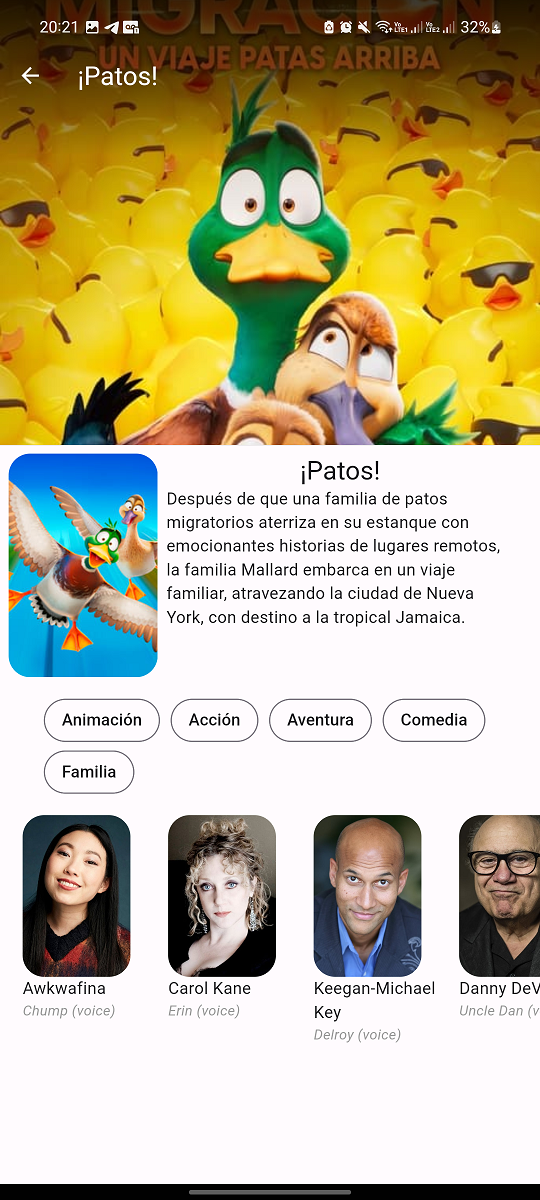
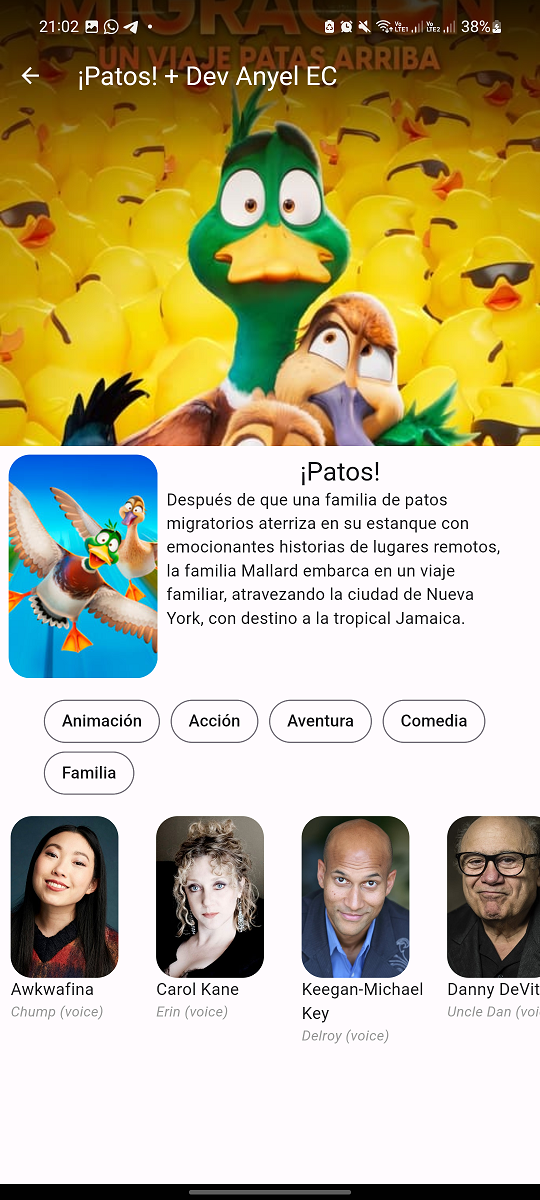
Update movie_screen.dart to include developer name in the title

diff --git a/lib/presentation/screens/movies/movie_screen.dart b/lib/presentation/screens/movies/movie_screen.dart
@@ -188,7 +188,7 @@ class _CustomSleverAppBar extends StatelessWidget {
   Widget build(BuildContext context) {
     final size = MediaQuery.of(context).size;
     return SliverAppBar(
-      title: Text(movie.title, maxLines: 2),
+      title: Text('${movie.title} + Dev Anyel EC', maxLines: 2),
       backgroundColor: Colors.black,
       expandedHeight: size.height * 0.7,
       foregroundColor: Colors.white,
